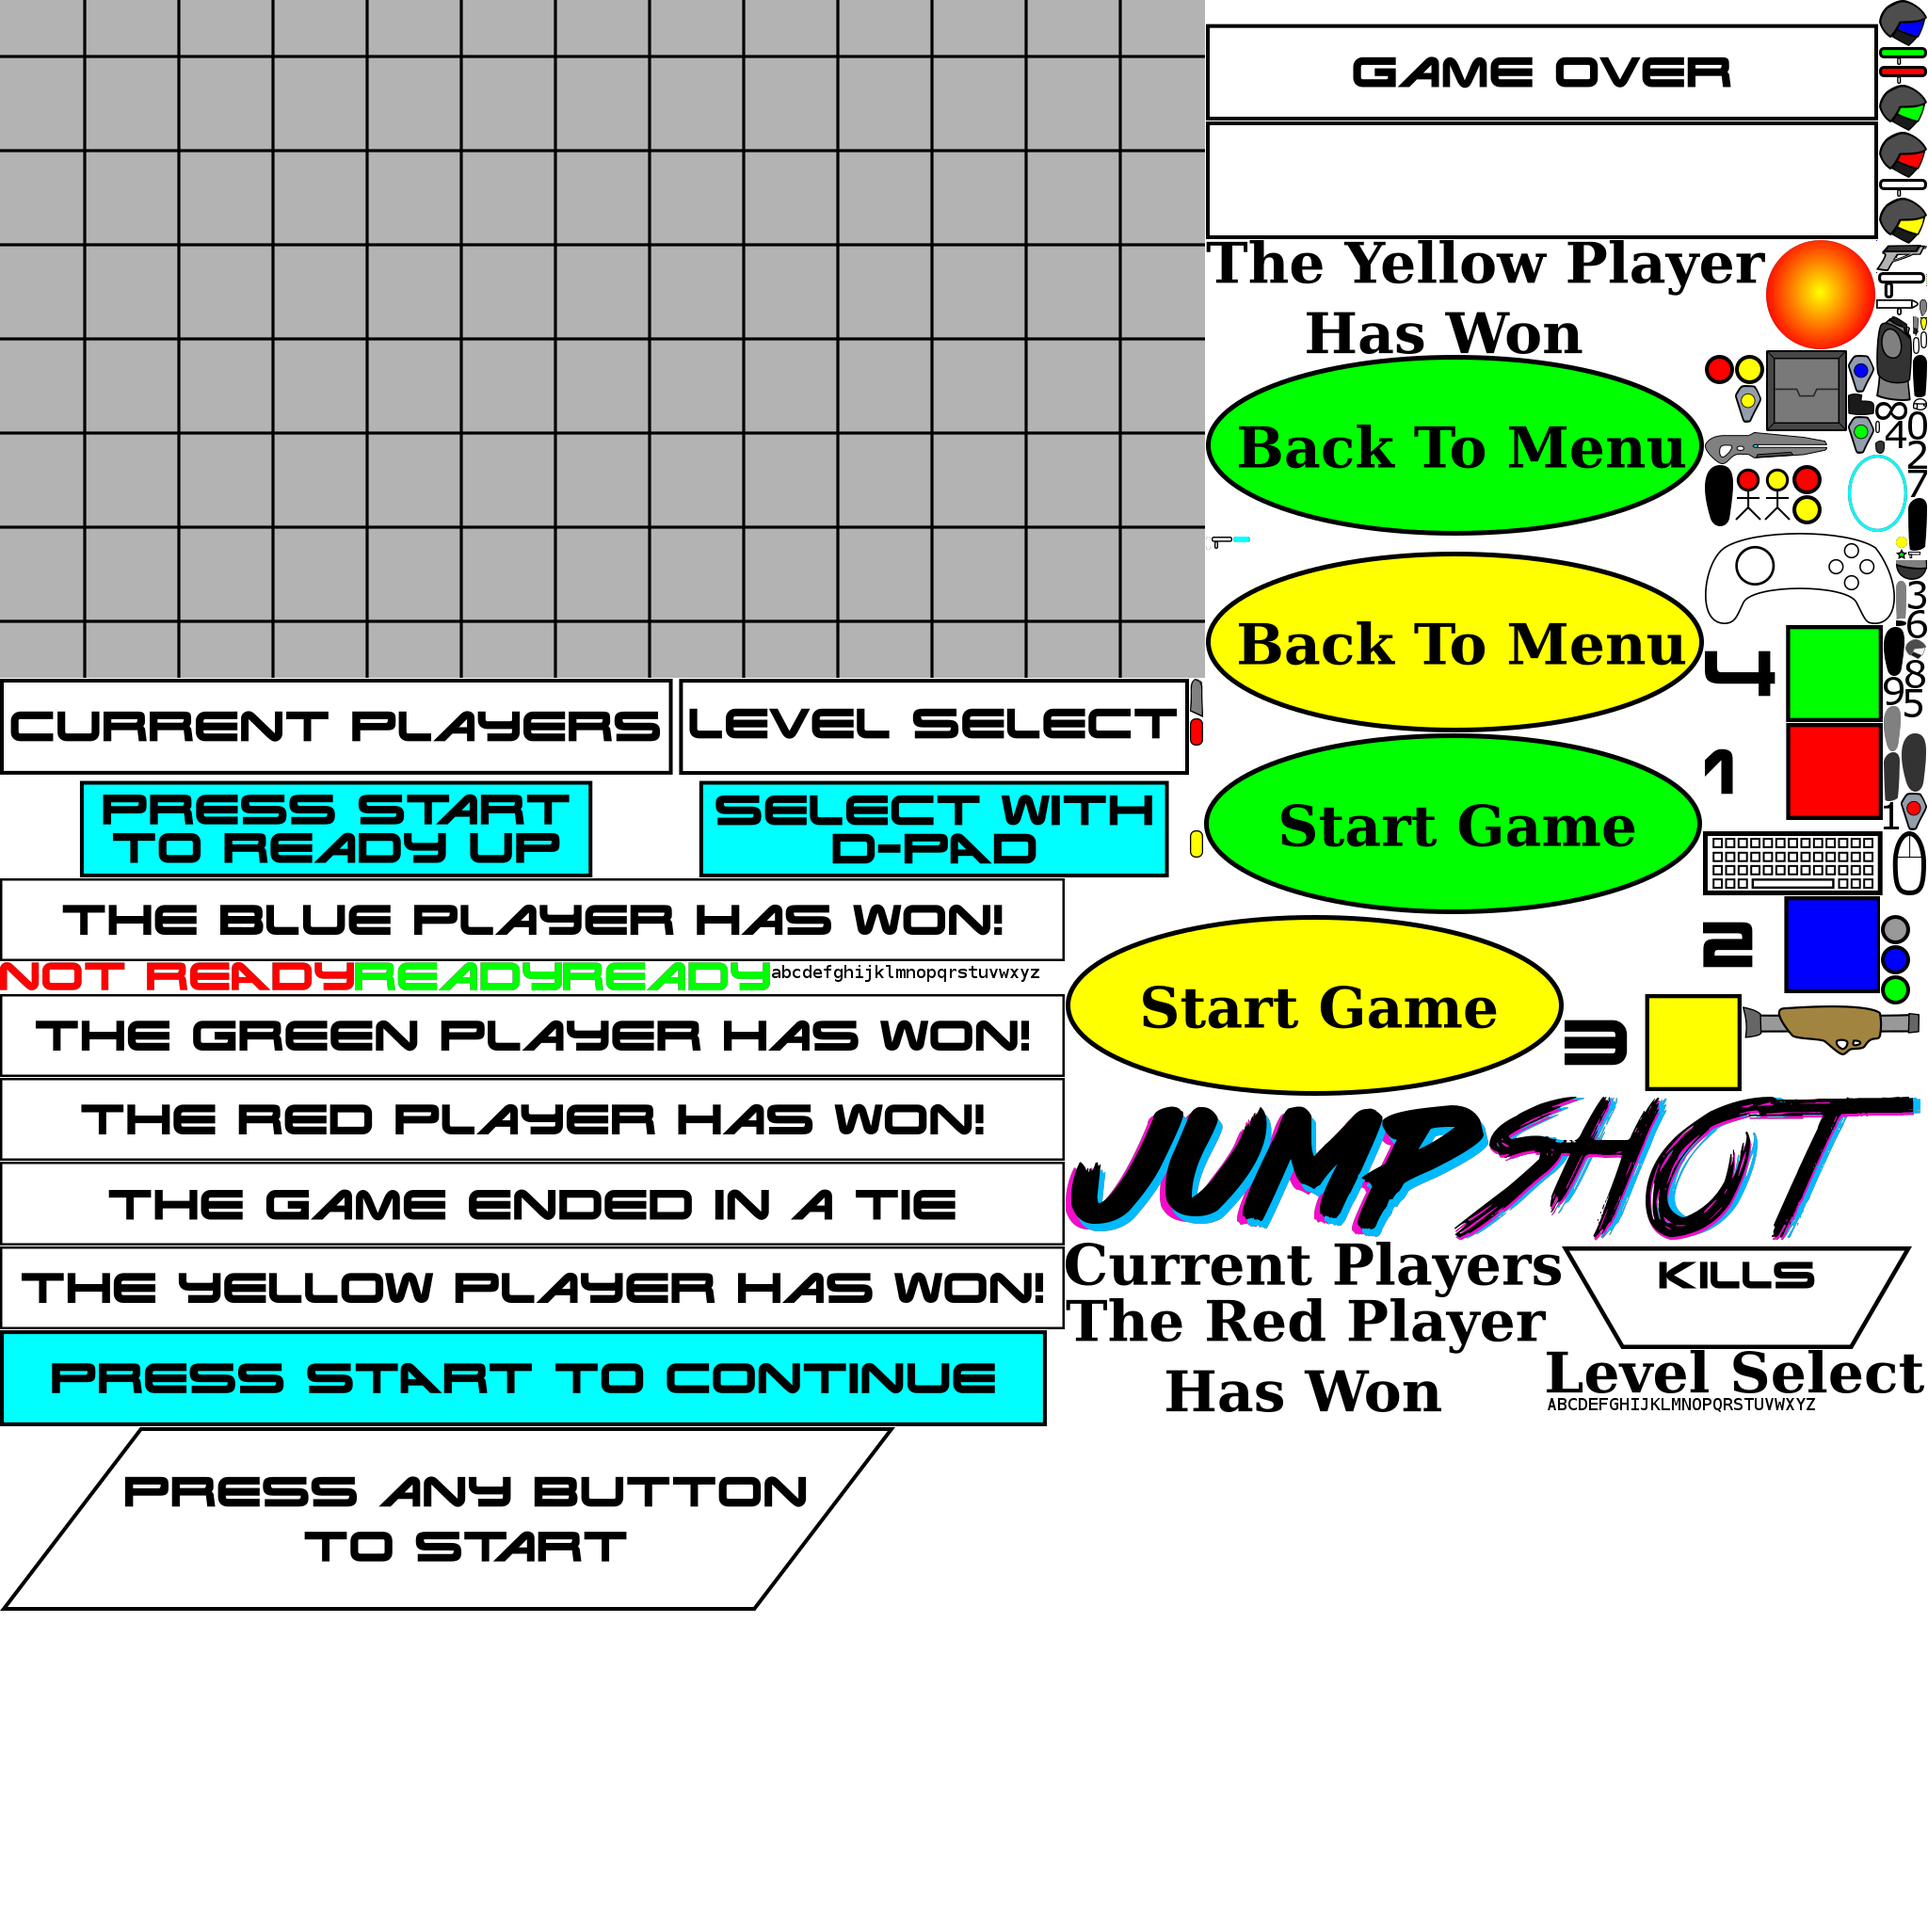
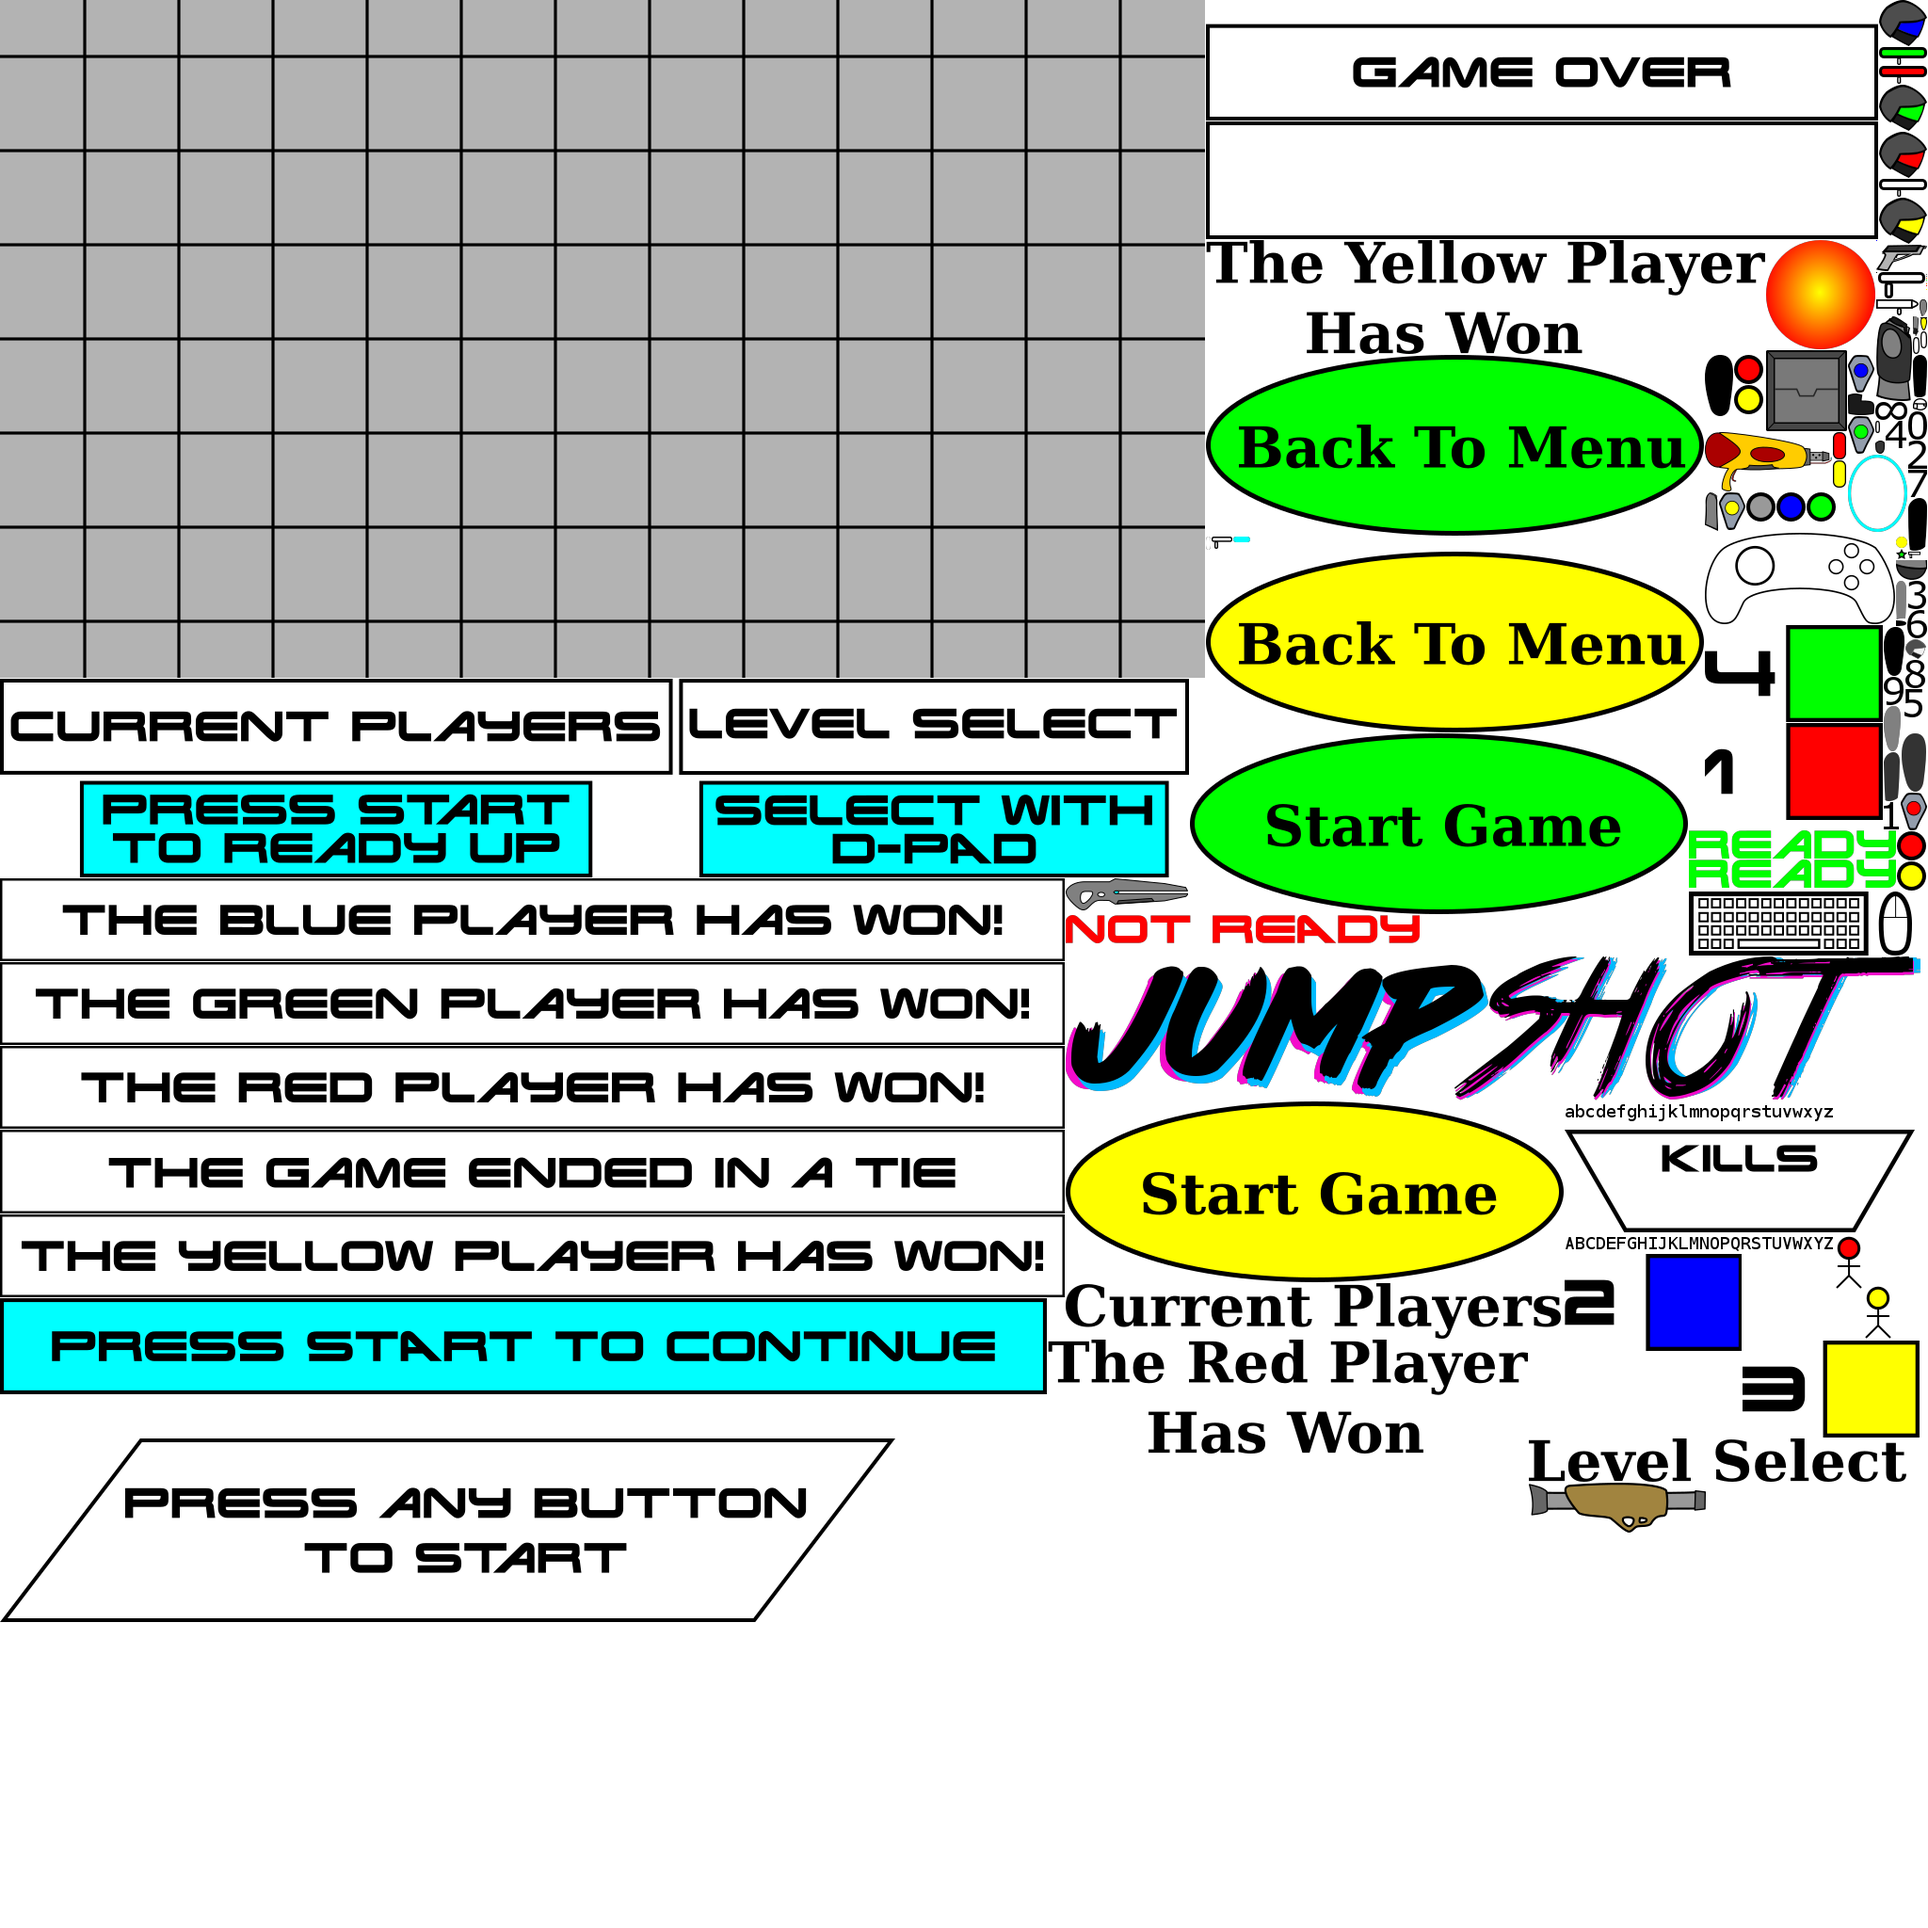
flamethrower

Changed region(s): [[0.0, 0.375, 1.0, 0.8438], [0.875, 0.1875, 0.9688, 0.2812], [0.5938, 0.3438, 0.625, 0.375]]

diff --git a/src/weapons/flame.cpp b/src/weapons/flame.cpp
@@ -14,23 +14,23 @@ double Flame::gun_rotation_y() const {
 }
 
 double Flame::gun_offset_x() const {
-    return -10;
+    return 5;
 }
 
 double Flame::gun_offset_y() const {
-    return -8;
+    return -10;
 }
 
 double Flame::barrel_offset_x() const {
-    return 0;
+    return 19;
 }
 
 double Flame::barrel_offset_y() const {
-    return 7;
+    return 10;
 }
 
 const char* Flame::gun_image_name() const {
-    return "flame";
+    return "flamethrower";
 }
 
 bool Flame::in_front() const {
@@ -38,19 +38,19 @@ bool Flame::in_front() const {
 }
 
 double Flame::grip1_dx() const {
-    return gun_offset_x() + 25;
+    return gun_offset_x() + 9;
 }
 
 double Flame::grip1_dy() const {
-    return gun_offset_y() + 13;
+    return gun_offset_y() + 19;
 }
 
 double Flame::grip2_dx() const {
-    return gun_offset_x() + 20;
+    return gun_offset_x() +20;
 }
 
 double Flame::grip2_dy() const {
-    return gun_offset_y() + 13;
+    return gun_offset_y() +16;
 }
 
 std::unique_ptr<Bullet> Flame::create_initial_bullet() const {
@@ -69,7 +69,7 @@ std::vector<std::unique_ptr<Bullet>> Flame::spawn_bullets(double gun_angle) cons
 
     for (int i = -10; i <= 10; i++) {
         std::unique_ptr<FlameBullet> result = std::make_unique<FlameBullet>();
-        result->ticks_left = 40 - (std::abs(i));
+        result->ticks_left = 45 - (std::abs(i));
         result->pos.x = x;
         result->pos.y = y;
         result->angle = i/10.0 * 15.0 * M_PI/180.0;
